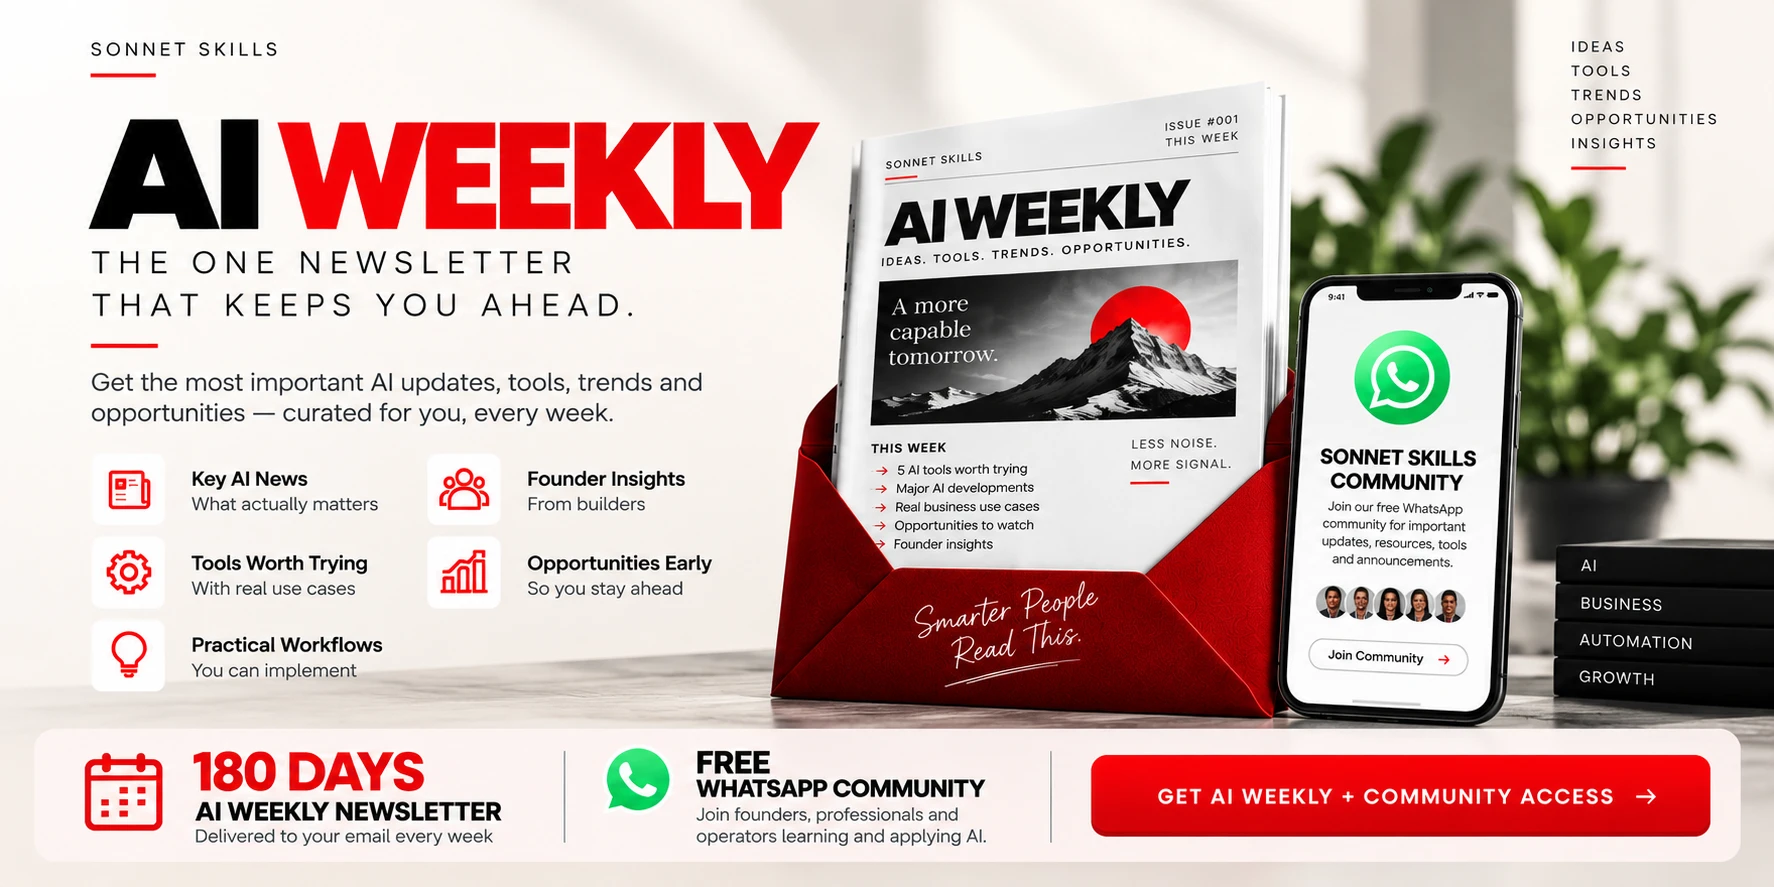
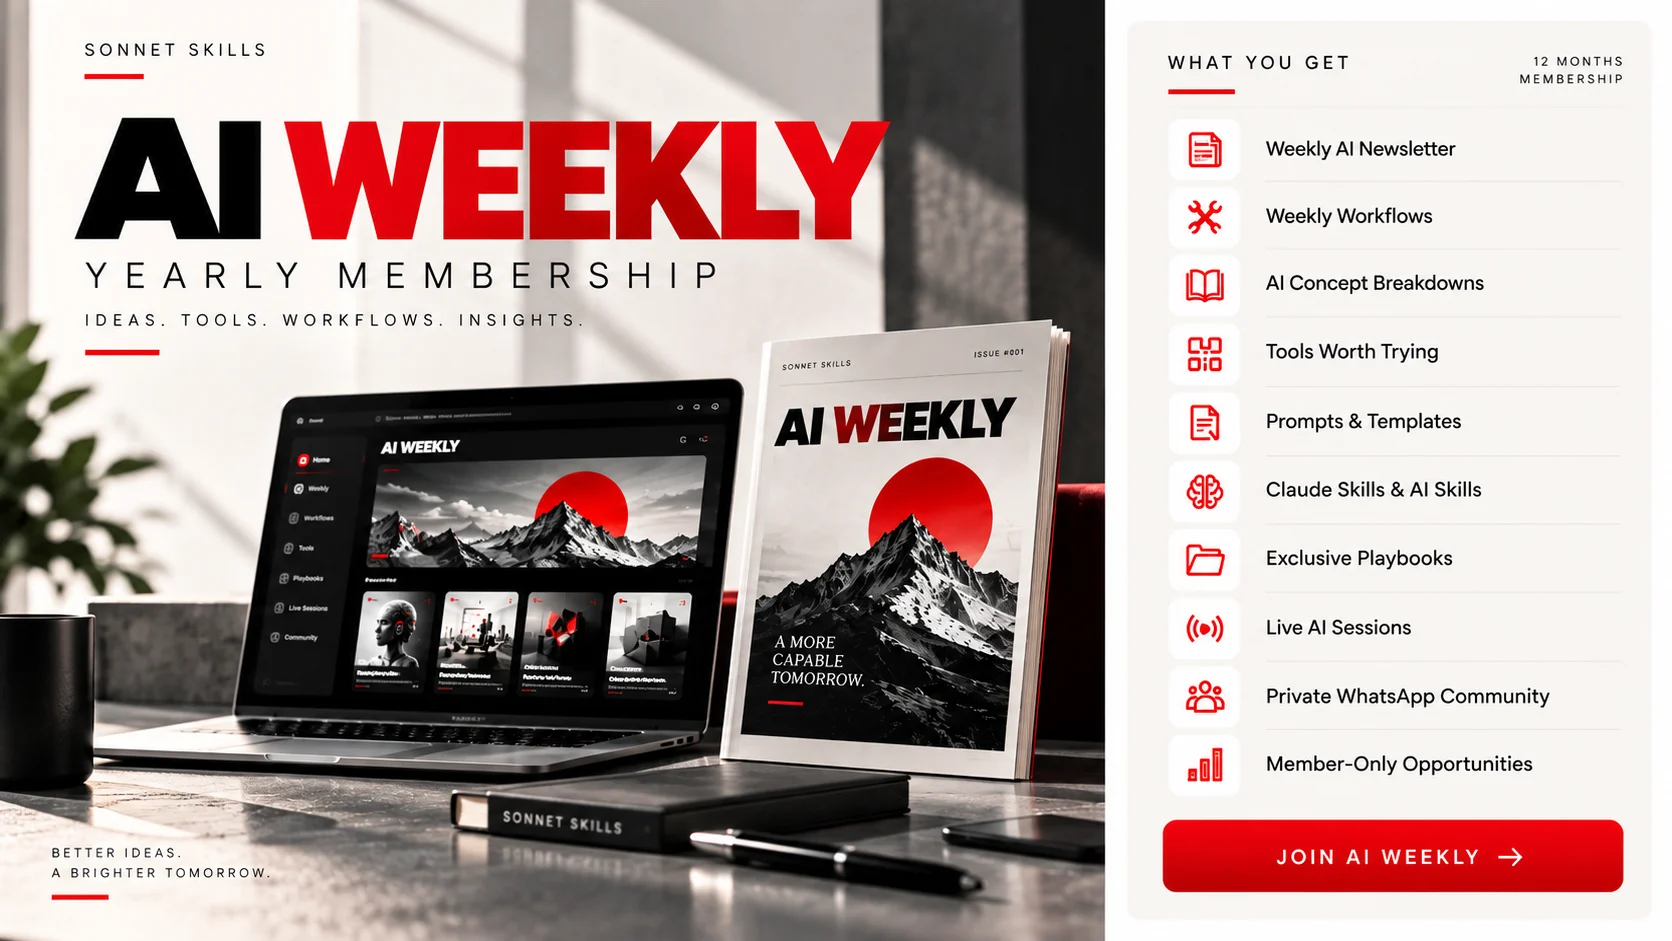
The kit at ₹99, AI Weekly at ₹499 as a yearly membership
Prices follow Admin › Products, which is where the real ones live —
these only decide what the page says.

AI Weekly becomes a 12-month membership rather than 180 days: new
poster, new name, and the ten things the membership actually includes
in place of the six-line newsletter summary.

The add-on CTA said "ADD THIS — ₹108" with no mention of tax while
every price beside it read "+ 18% GST". It says so now.

diff --git a/lib/offer.ts b/lib/offer.ts
@@ -16,7 +16,7 @@ export const ADDONS = {
     slug: "ai-business-bundle",
     label: "5-book bundle",
     name: "The Complete AI Implementation Kit for Founders",
-    amount: 49,
+    amount: 99,
     summary: "5 books. A more capable you — from finding AI opportunities to running your business on them.",
     image: "/bundle-5-books.webp",
     checkoutImage: "/bundle-5-books.webp",
@@ -33,22 +33,22 @@ export const ADDONS = {
       "Book 4 · Build Your First AI Employee — a 10-day blueprint from idea to production",
       "Book 5 · The Founder AI Operating System — run your business with AI, automation & business memory",
     ],
-    note: "One-time ₹49 · Delivered digitally with your playbook · No subscription",
+    note: "One-time ₹99 · Delivered digitally with your playbook · No subscription",
     /* What taking this unlocks beyond the books themselves. Shown on the card
        as the reason to tick it, and again as a confirmation once ticked. */
     bonus: "The AI Foundations mini-course — the short course that makes the rest make sense.",
   },
   newsletter: {
     slug: "ai-business-newsletter",
-    label: "Newsletter · 180 days",
-    name: "AI Weekly — 180-Day Subscription",
-    amount: 99,
-    summary: "The one newsletter that keeps you ahead. Ideas, tools, trends and opportunities — every week by email, plus the free WhatsApp community.",
+    label: "Membership · 12 months",
+    name: "AI Weekly — Yearly Membership",
+    amount: 499,
+    summary: "One membership, 12 months of AI advantage. Updates, workflows, tools, skills, resources, live sessions and the private community — we filter the noise and show you how to use what matters.",
     image: "/newsletter-ai-weekly.webp",
     // Landscape artwork used only inside the checkout popup.
     checkoutImage: "/newsletter-ai-weekly-checkout.webp",
     thumbFocus: "68% 40%",
-    imageAlt: "AI Weekly — 180 days of the newsletter, plus the free WhatsApp community",
+    imageAlt: "AI Weekly — a 12-month membership: weekly briefings, workflows, tools, skills, live sessions and the private WhatsApp community",
     /* "What's included" opens on the bonus rather than the newsletter, because
        the consultation is the thing somebody is deciding about at that point. */
     detailsImage: "/consultation-25-min.webp",
@@ -58,14 +58,18 @@ export const ADDONS = {
        there is no way to quietly recommend both. */
     recommended: true,
     points: [
-      "Key AI news — what actually matters",
-      "Tools worth trying — with real use cases",
-      "Practical workflows you can implement",
-      "Founder insights — from builders",
-      "Opportunities early — so you stay ahead",
-      "Free WhatsApp community — founders, professionals and operators applying AI",
+      "52 AI Weekly briefings — the updates, launches and shifts that matter, without the noise",
+      "52 practical workflows — for sales, marketing, operations, productivity and more",
+      "52 AI concepts made simple — agents, automation, models, MCP, RAG and whatever comes next",
+      "Tools worth trying — what deserves your attention, and what you can safely ignore",
+      "Prompts, templates and ready-to-use resources you can put to work immediately",
+      "Claude Skills and new AI skills — updated as new capabilities emerge",
+      "Exclusive playbooks and deep dives on the tools, trends and use cases that matter",
+      "Live AI sessions and workshops — ask questions and see implementation in action",
+      "Private WhatsApp community — founders, professionals and operators applying AI",
+      "12 months of continuous updates — as AI changes, your membership changes with it",
     ],
-    note: "One-time ₹99 · Delivered to your email every week for 180 days · Includes WhatsApp community access · No auto-renewal",
+    note: "One-time ₹499 · 12 months of access · Includes the private WhatsApp community · No auto-renewal",
     /* What taking this unlocks beyond the thing itself. Shown only once ticked,
        because a bonus announced before you have earned it is just more copy. */
     bonus: "Your free 25-minute AI Consultation — a 1:1 call about your business, not a demo.",

diff --git a/app/page.tsx b/app/page.tsx
@@ -643,7 +643,7 @@ export default function Home() {
                       onClick={() => checkout(`addon_showcase_${k}_click`, k)}
                       className="btn-red mt-6 inline-flex w-full items-center justify-center gap-2 sm:w-auto"
                     >
-                      GET THE PLAYBOOK + ADD THIS — ₹{PRODUCT.amount + a.amount} <ArrowRight className="h-4 w-4" />
+                      GET THE PLAYBOOK + ADD THIS — ₹{PRODUCT.amount + a.amount} + 18% GST <ArrowRight className="h-4 w-4" />
                     </button>
                   </div>
                 </article>
